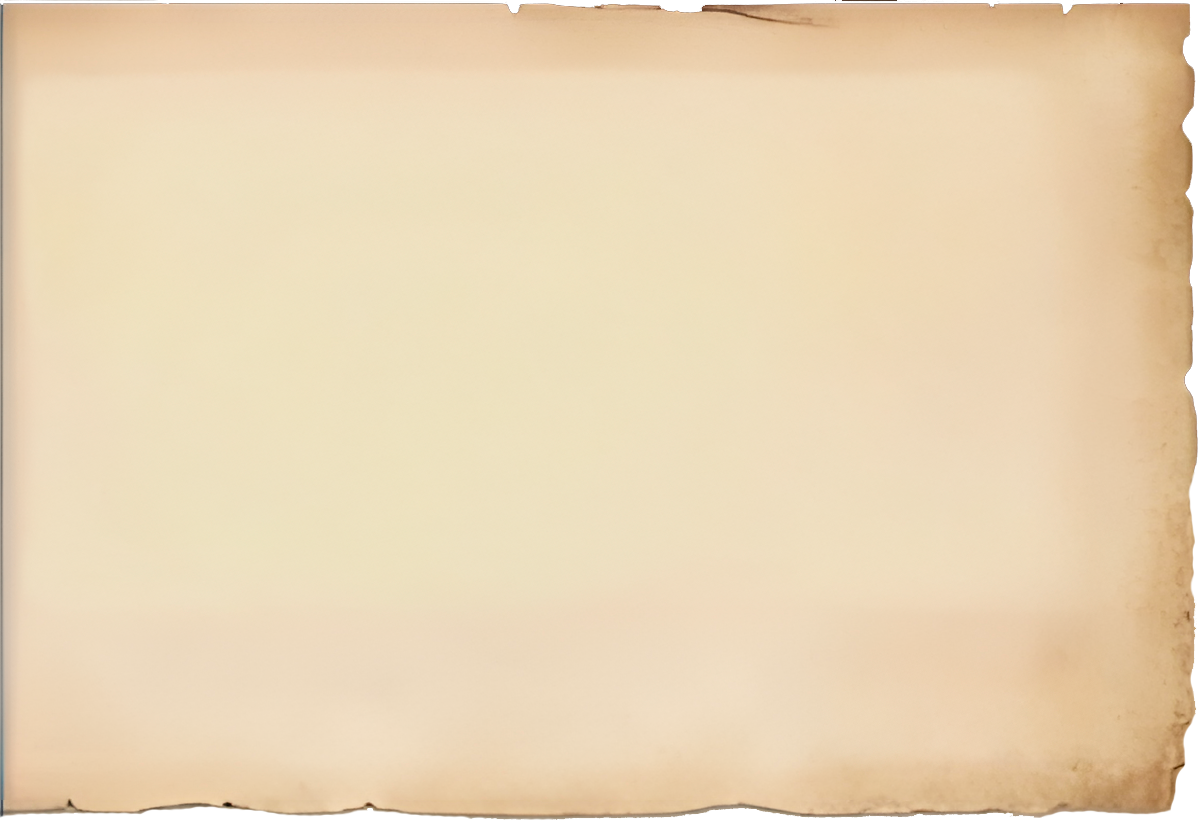
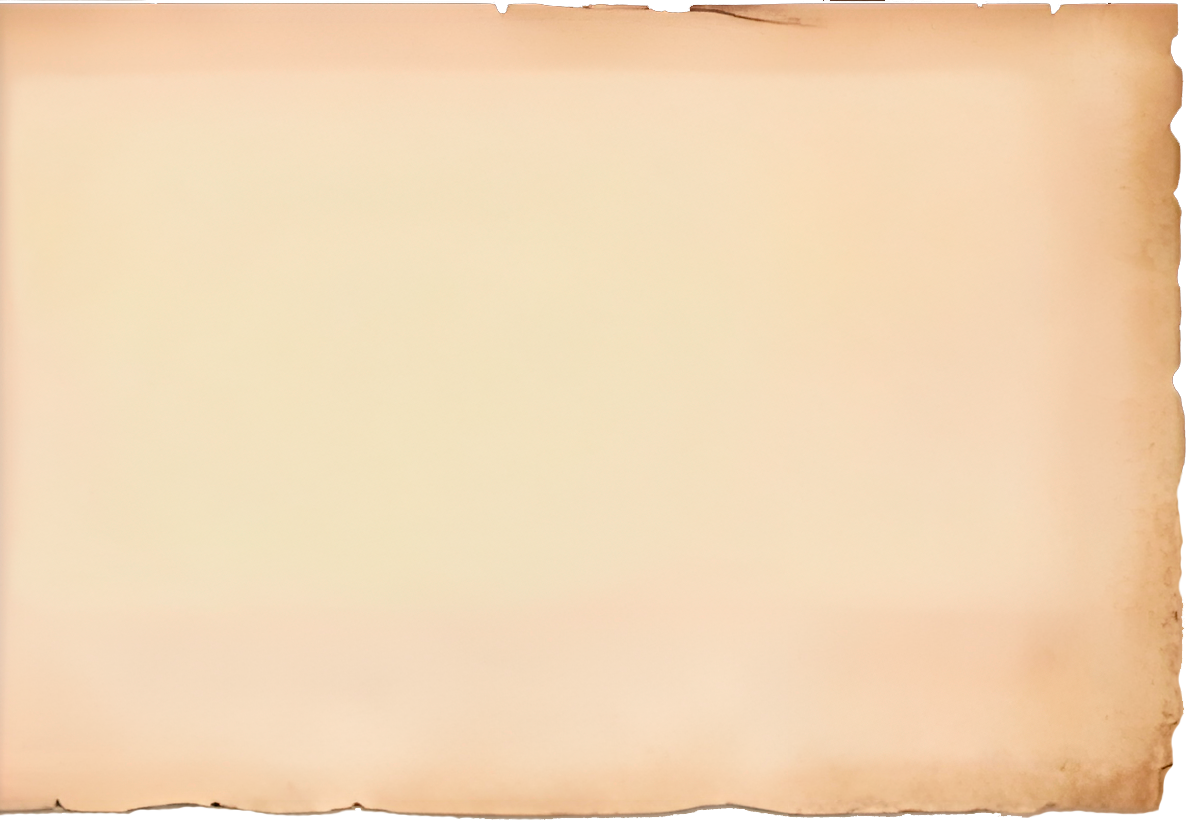
footer styling

diff --git a/javascript-path/jp-02-javascript/20-homepage/index.html b/javascript-path/jp-02-javascript/20-homepage/index.html
@@ -69,6 +69,34 @@
         />
         >
       </symbol>
+
+      <symbol
+        id="phone-icon"
+        xmlns="http://www.w3.org/2000/svg"
+        viewBox="0 -960 960 960"
+      >
+        <path
+          d="M798-120q-125 0-247-54.5T329-329Q229-429 174.5-551T120-798q0-18 12-30t30-12h162q14 0 25 9.5t13 22.5l26 140q2 16-1 27t-11 19l-97 98q20 37 47.5 71.5T387-386q31 31 65 57.5t72 48.5l94-94q9-9 23.5-13.5T670-390l138 28q14 4 23 14.5t9 23.5v162q0 18-12 30t-30 12ZM241-600l66-66-17-94h-89q5 41 14 81t26 79Zm358 358q39 17 79.5 27t81.5 13v-88l-94-19-67 67ZM241-600Zm358 358Z"
+        />
+        >
+      </symbol>
+
+      <symbol
+        id="discord-icon"
+        xmlns="http://www.w3.org/2000/svg"
+        xmlns:xlink="http://www.w3.org/1999/xlink"
+        viewBox="0 -28.5 256 256"
+        version="1.1"
+        preserveAspectRatio="xMidYMid"
+      >
+        <g>
+          <path
+            d="M216.856339,16.5966031 C200.285002,8.84328665 182.566144,3.2084988 164.041564,0 C161.766523,4.11318106 159.108624,9.64549908 157.276099,14.0464379 C137.583995,11.0849896 118.072967,11.0849896 98.7430163,14.0464379 C96.9108417,9.64549908 94.1925838,4.11318106 91.8971895,0 C73.3526068,3.2084988 55.6133949,8.86399117 39.0420583,16.6376612 C5.61752293,67.146514 -3.4433191,116.400813 1.08711069,164.955721 C23.2560196,181.510915 44.7403634,191.567697 65.8621325,198.148576 C71.0772151,190.971126 75.7283628,183.341335 79.7352139,175.300261 C72.104019,172.400575 64.7949724,168.822202 57.8887866,164.667963 C59.7209612,163.310589 61.5131304,161.891452 63.2445898,160.431257 C105.36741,180.133187 151.134928,180.133187 192.754523,160.431257 C194.506336,161.891452 196.298154,163.310589 198.110326,164.667963 C191.183787,168.842556 183.854737,172.420929 176.223542,175.320965 C180.230393,183.341335 184.861538,190.991831 190.096624,198.16893 C211.238746,191.588051 232.743023,181.531619 254.911949,164.955721 C260.227747,108.668201 245.831087,59.8662432 216.856339,16.5966031 Z M85.4738752,135.09489 C72.8290281,135.09489 62.4592217,123.290155 62.4592217,108.914901 C62.4592217,94.5396472 72.607595,82.7145587 85.4738752,82.7145587 C98.3405064,82.7145587 108.709962,94.5189427 108.488529,108.914901 C108.508531,123.290155 98.3405064,135.09489 85.4738752,135.09489 Z M170.525237,135.09489 C157.88039,135.09489 147.510584,123.290155 147.510584,108.914901 C147.510584,94.5396472 157.658606,82.7145587 170.525237,82.7145587 C183.391518,82.7145587 193.761324,94.5189427 193.539891,108.914901 C193.539891,123.290155 183.391518,135.09489 170.525237,135.09489 Z"
+            fill-rule="nonzero"
+          ></path>
+        </g>
+        >
+      </symbol>
     </svg>
     <div class="header-shadow-wrapper">
       <header>
@@ -209,29 +237,33 @@
         </div>
       </main>
     </div>
-    <footer>
-      <div class="left-container">
-        <h1>JOIN THE CHRONICLE SQUAD</h1>
-        <p>
-          A collective dedicated to cataloging the Aetheric Realms. Seekers of
-          rare artifacts, weavers of historical context, and guardians of truth
-          are welcome.
-        </p>
-        <span>
-          <svg><use href="#"></use></svg>
-          Address: Sanctum of Echoes, The Mists
-        </span>
-        <span>
-          <svg><use href="#"></use></svg>
-          Discord: [Chronicler#5678]
-        </span>
-        <div class="icons-container">
-          <svg><use href="#"></use></svg>
-          <svg><use href="#"></use></svg>
-          <svg><use href="#"></use></svg>
+    <div class="footer-background">
+      <footer>
+        <div class="footer-content">
+          <div class="left-container">
+            <h1>JOIN THE CHRONICLE SQUAD</h1>
+            <p>
+              A collective dedicated to cataloging the Aetheric Realms. Seekers
+              of rare artifacts, weavers of historical context, and guardians of
+              truth are welcome.
+            </p>
+            <span>
+              <svg><use href="#phone-icon"></use></svg>
+              Address: Sanctum of Echoes, The Mists
+            </span>
+            <span>
+              <svg><use href="#discord-icon"></use></svg>
+              Discord: [Chronicler#5678]
+            </span>
+            <div class="icons-container">
+              <svg><use href="#dragon-icon"></use></svg>
+              <svg><use href="#swords-icon"></use></svg>
+              <svg><use href="#book-icon"></use></svg>
+            </div>
+          </div>
+          <img src="images/footer.png" alt="footer" />
         </div>
-      </div>
-      >
-    </footer>
+      </footer>
+    </div>
   </body>
 </html>

diff --git a/javascript-path/jp-02-javascript/20-homepage/styles.css b/javascript-path/jp-02-javascript/20-homepage/styles.css
@@ -249,7 +249,7 @@ header {
     background-size: 100% 100%; 
     background-repeat: no-repeat;
     background-position: center;
-    padding: var(--space-3xl);
+    padding: var(--space-xl);
     filter: drop-shadow(5px 5px 10px rgba(0, 0, 0, 0.5));
     gap: var(--space-md);
 }
@@ -350,4 +350,84 @@ main {
     color: var(--color-fg);
     font-size: var(--font-lg);
     font-weight: var(--weight-light);
+}
+
+.footer-background {
+    width: 100%;
+    background-color: #301713;
+    /* background-image: url(./images/footer-background.png);
+    background-size: 100% 100%; 
+    background-repeat: no-repeat;
+    background-position: center; */
+}
+
+footer {
+    max-width: 1200px;
+    margin: 0 auto;
+}
+
+.footer-content{
+    width: 100%;
+    display: flex;
+    padding: var(--space-xl);
+    gap: var(--space-md);
+    justify-content: space-between;
+}
+
+.footer-content img{
+    width: 100%;
+    max-width: 400px;
+    box-shadow: 0px 0px 20px rgba(0, 0, 0, 0.6);
+}
+
+.footer-content .left-container{
+    display: flex;
+    flex-direction: column;
+    gap: var(--space-md);
+}
+
+.footer-content h1,
+.footer-content p, 
+.footer-content span {
+    text-shadow: 0px 3px 3px rgba(0, 0, 0, 0.9);
+}
+
+.footer-content h1{
+    font-weight: var(--weight-medium);
+    color: #DDCEAD;
+}
+
+.footer-content p,
+.footer-content span {
+    color: var(--color-bg);
+    font-weight: var(--weight-semibold);
+    font-size: var(--font-lg);
+}
+
+.footer-content span {
+    display: flex;
+    align-items: center;
+    gap: var(--space-xs);
+}
+
+.footer-content span svg {
+    width: 20px;
+    height: 20px;
+    fill:#DDCEAD;
+    cursor: pointer;
+    filter: drop-shadow(0px 3px 3px rgba(0, 0, 0, 0.9));
+}
+
+.footer-content .icons-container {
+    display: flex;
+    align-items: center;
+    gap: var(--space-sm);
+}
+
+.footer-content .icons-container svg {
+    width: 30px;
+    height: 30px;
+    fill:#DDCEAD;
+    cursor: pointer;
+    filter: drop-shadow(0px 3px 3px rgba(0, 0, 0, 0.9));
 }
